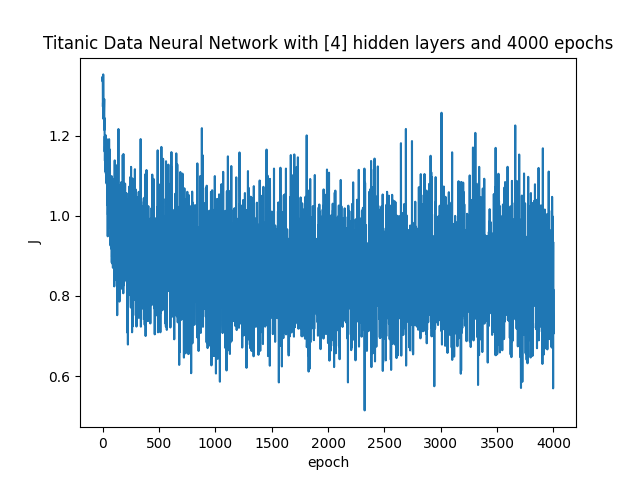
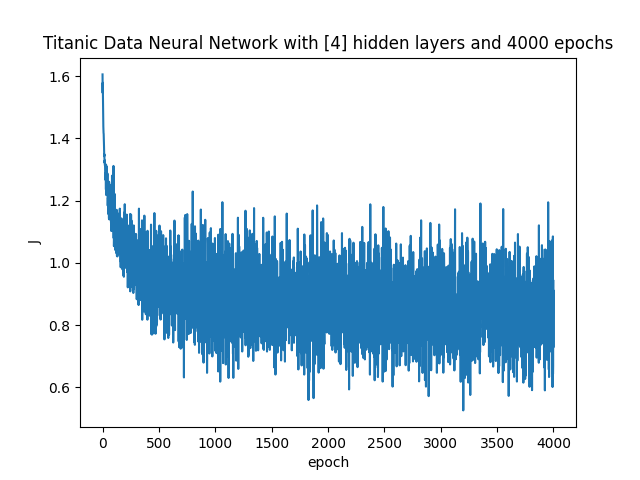
titannn8

diff --git a/titanicneuralnetwork.py b/titanicneuralnetwork.py
@@ -8,7 +8,7 @@ hidden2 = [8]
 hidden3 = [8,8]
 hidden4 = [8,8,8]
 listoflayers = [hidden1,hidden2,hidden3,hidden4]
-epochp_1 = 2000
+epochp_1 = 4000
 
 def savef(rawdata,rawcategory,hiddenlayer,epoch,filename):
     loflofoutputs, acc, lofj = kfoldcrossvalidneuralnetwork(rawdata,rawcategory,hiddenlayer,k=10,minibatchk=8,lambda_reg=0.1, learning_rate=0.01, epsilon_0=0.00001, softstop=epoch, printq=False)
@@ -32,7 +32,10 @@ for layer in listoflayers:
     n+=1
 
 # Titanic Data Neural Network with [4] hidden layers and 4000 epochs
-# Accuracy: 0.8309
-# F-score: 0.7617
+# Accuracy: 0.8208
+# F-score: 0.8597
 
+# Titanic Data Neural Network with [8] hidden layers and 5000 epochs
+# Accuracy: 0.8186
+# F-score: 0.8581
 
